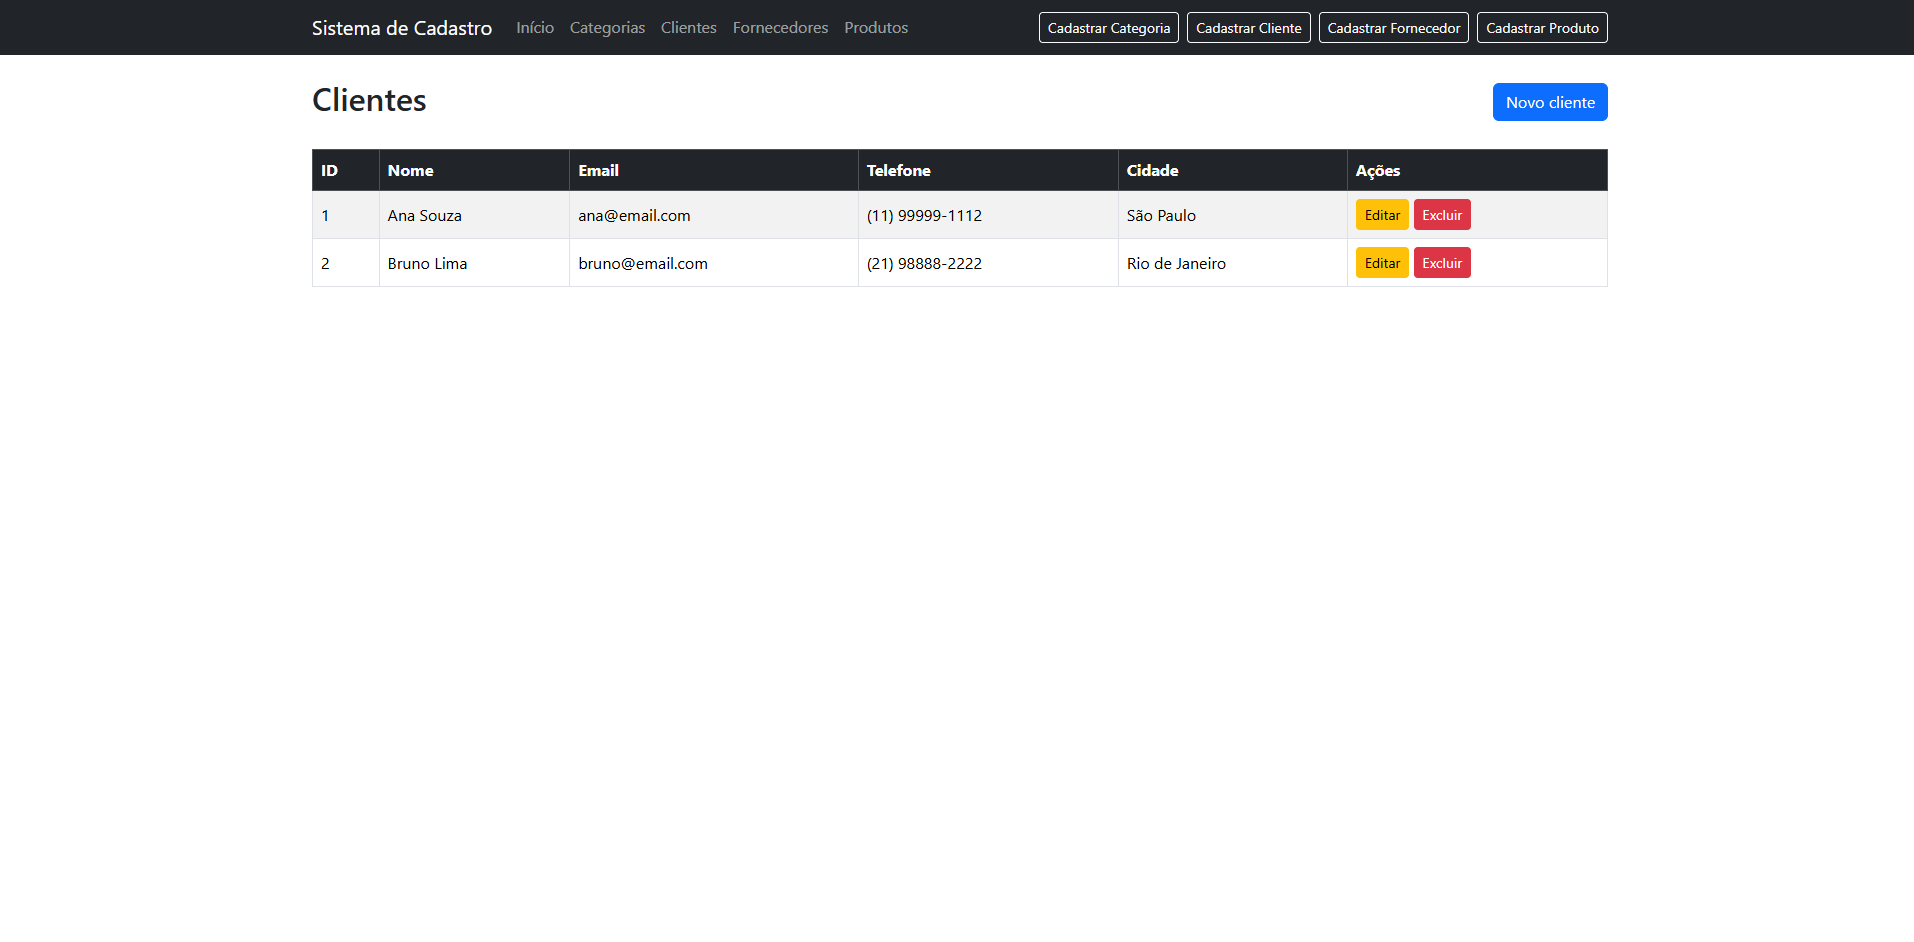
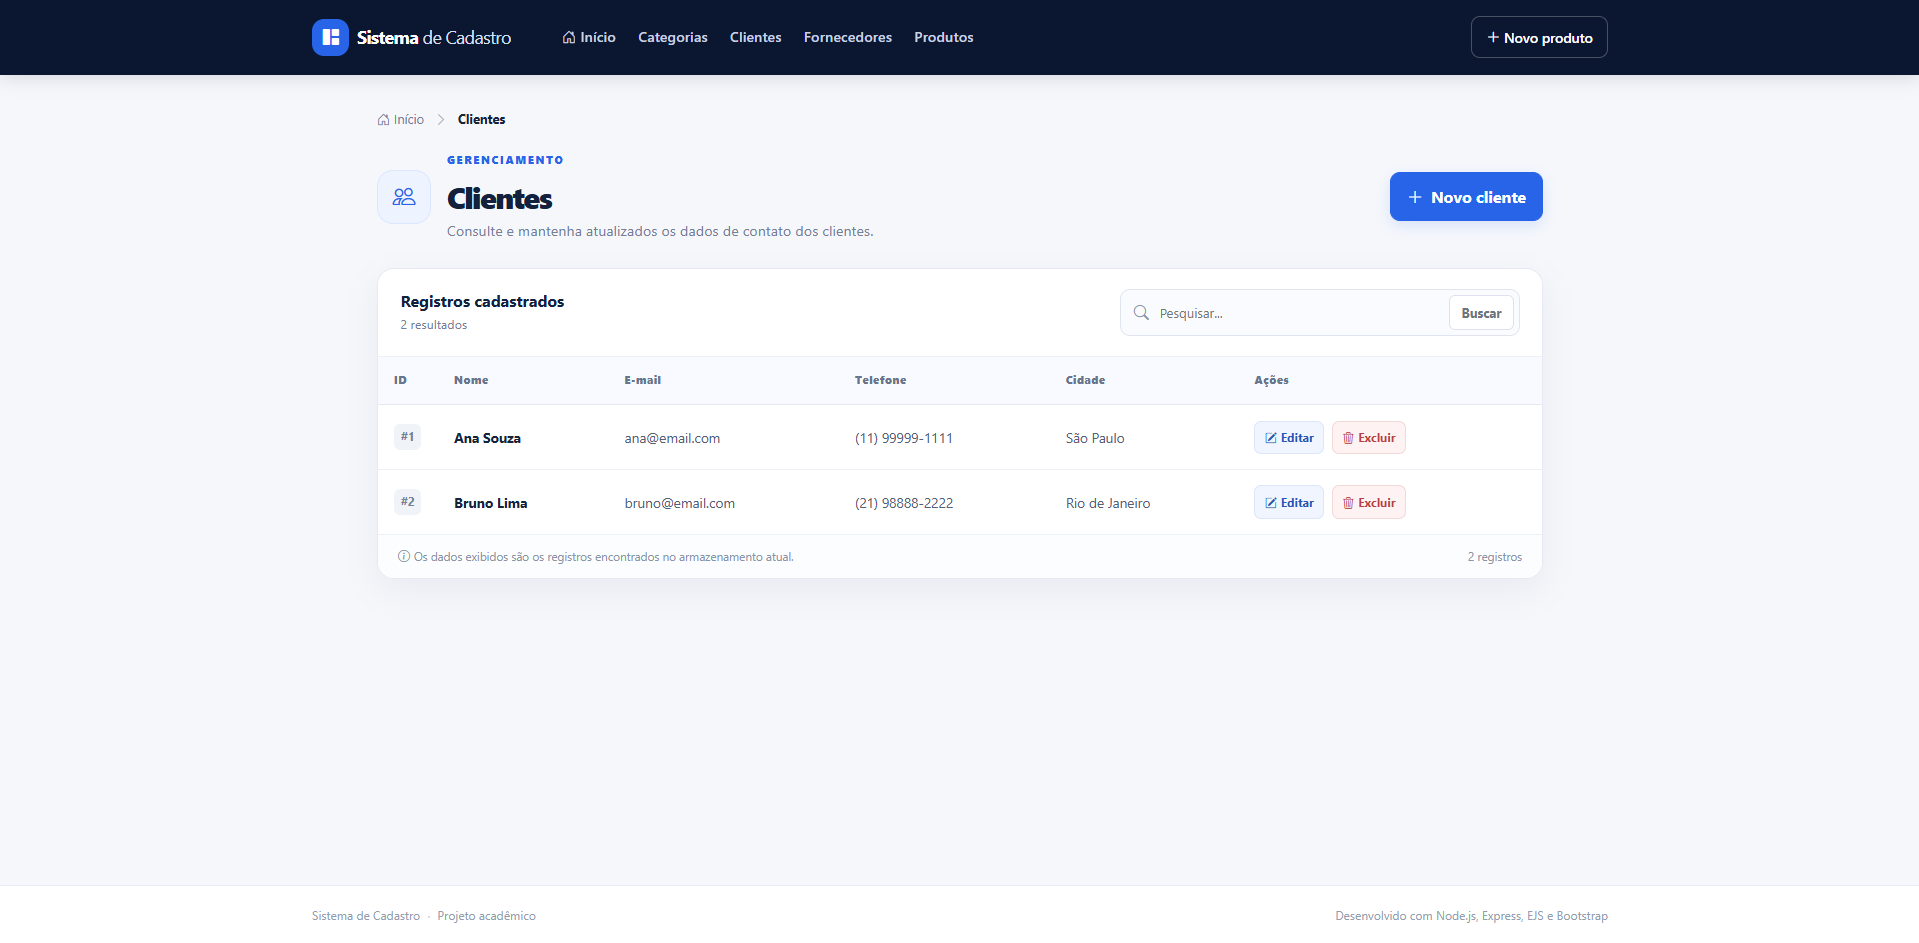
docs: atualiza README com estrutura de pastas e uso da IA; adiciona imagens de evidências

diff --git a/README.md b/README.md
@@ -45,6 +45,40 @@ Todas as entidades usam as rotas de listagem, cadastro, edição e exclusão, pr
 
 Também há pesquisa por texto nas listagens, mensagens de retorno, validação no servidor, telas de erro 404/500, confirmação antes de excluir e indicadores da página inicial baseados nas quantidades efetivamente lidas do armazenamento ativo. No layout de celular, a tabela fica dentro de uma área com rolagem horizontal controlada.
 
+## Pastas
+
+Nodejs--navega-o-EJS-main/
+├── app.js
+├── package.json
+├── package-lock.json
+├── .env.example
+├── .gitignore
+├── data/
+│   └── store.js
+├── docs/
+│   ├── evidencias/
+│   ├── prompt-utilizado.md
+│   └── schema-supabase.sql
+├── public/
+│   ├── css/
+│   │   └── app.css
+│   └── js/
+│       └── app.js
+├── routes/
+│   ├── categoriaRoutes.js
+│   ├── clienteRoutes.js
+│   ├── crudFactory.js
+│   ├── entityConfig.js
+│   ├── fornecedorRoutes.js
+│   └── produtoRoutes.js
+├── test/
+│   └── app.test.js
+└── views/
+    ├── entities/
+    ├── errors/
+    ├── partials/
+    └── index.ejs
+
 ## Uso da Inteligência Artificial
 
 A IA foi utilizada como apoio para revisar a estrutura existente, identificar operações CRUD incompletas, sugerir uma organização reutilizável de rotas e templates, melhorar a experiência visual, escrever validações, preparar testes e estruturar a documentação. As mudanças presentes nesta cópia são as alterações aplicadas no código durante esta execução; não significam que o GitHub ou a aplicação publicada tenham sido atualizados.
